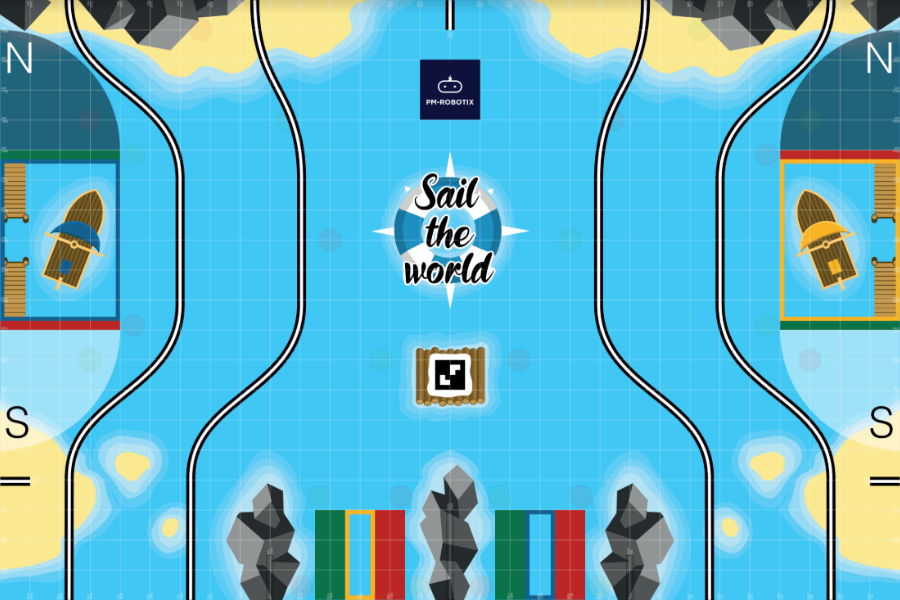
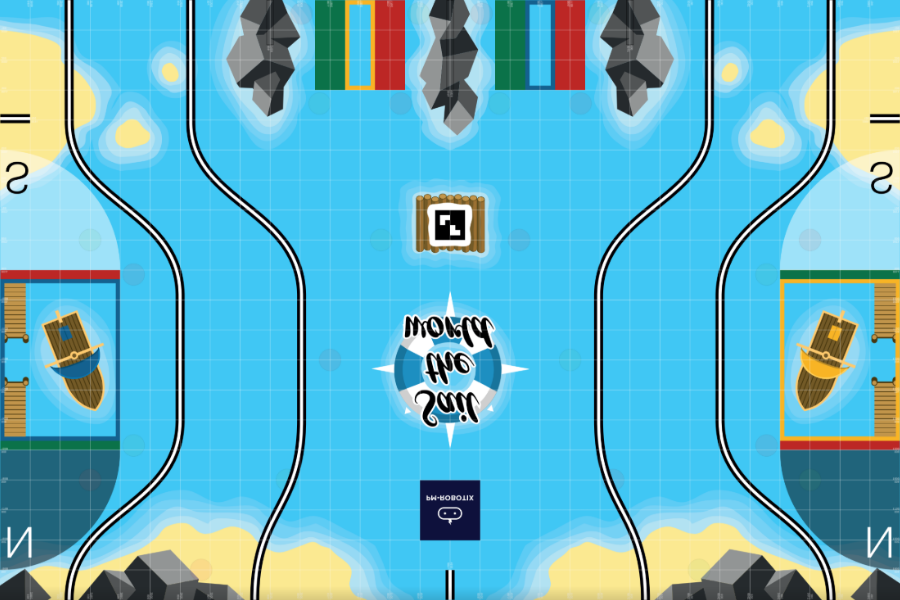
rotate coordinate plan

diff --git a/src/TablePanel.java b/src/TablePanel.java
@@ -6,9 +6,21 @@ import java.awt.event.*;
 import java.awt.geom.AffineTransform;
 import java.io.IOException;
 
+/**
+ * Author : Canyon
+ * Edited by
+ * @Ta0uf19
+ *
+ * TODO:
+ *  - fix up, down key
+ */
+
 public class TablePanel extends JPanel {
 	private static final long serialVersionUID = 1L;
-	
+
+	private static int WEIGHT_PADDING_PX = 30;
+	private static int HEIGHT_PADDING_PX = 600;
+
 	Image tableImg, robotImg;
 	static boolean drawLine;
 	
@@ -28,6 +40,12 @@ public class TablePanel extends JPanel {
 	
 	public void paintComponent(Graphics g){//Affichage de la table et tout les �l�ments dessus
 		Graphics2D g2d = (Graphics2D)g;
+		AffineTransform at = g2d.getTransform();
+
+		g2d.translate(WEIGHT_PADDING_PX, HEIGHT_PADDING_PX);
+		// inverser le plan
+		g2d.scale(1, -1);
+
 		g.drawImage(tableImg, 0, 0, this);
 		drawRobot(g2d, EditorPanel.actualRobot);
 		if(drawLine)drawLine(g2d);
@@ -36,14 +54,15 @@ public class TablePanel extends JPanel {
 	//Transition
 	KeyListener keyPressed = new KeyListener(){
 		public void keyPressed(KeyEvent e){
-			if(e.getKeyCode()==KeyEvent.VK_UP) EditorPanel.actualRobot.setY(EditorPanel.actualRobot.getY()-1);
-			if(e.getKeyCode()==KeyEvent.VK_DOWN) EditorPanel.actualRobot.setY(EditorPanel.actualRobot.getY()+1);
+			if(e.getKeyCode()==KeyEvent.VK_UP) EditorPanel.actualRobot.setY(EditorPanel.actualRobot.getY()+1);
+			if(e.getKeyCode()==KeyEvent.VK_DOWN) EditorPanel.actualRobot.setY(EditorPanel.actualRobot.getY()-1);
 			if(e.getKeyCode()==KeyEvent.VK_RIGHT) EditorPanel.actualRobot.setX(EditorPanel.actualRobot.getX()+1);
 			if(e.getKeyCode()==KeyEvent.VK_LEFT) EditorPanel.actualRobot.setX(EditorPanel.actualRobot.getX()-1);
 			if(EditorPanel.list.getSelectedIndex()!=0){
 				Robot old = EditorPanel.stepList.getElementAt(EditorPanel.list.getSelectedIndex()-1);
 				Robot actual = EditorPanel.stepList.getElementAt(EditorPanel.list.getSelectedIndex());
 				int theta = (int) (Math.atan2((double)(actual.getY()-old.getY()),(double)(actual.getX()-old.getX()))*180/Math.PI);
+				//int theta=(int) ((int)Math.atan((double)(old.getX()-actual.getX())/(double)(old.getY()-actual.getY()))*180/Math.PI);
 				EditorPanel.actualRobot.setAngle(theta);
 			}
 			EditorPanel.updateCoord();
@@ -60,8 +79,11 @@ public class TablePanel extends JPanel {
 		public void keyTyped(KeyEvent arg0) {
 		}
 	};
-	
-	MouseWheelListener wheelRotate = new MouseWheelListener(){//Rotation du robot avec la molette
+
+	/**
+	 * Rotation du robot avec la molette
+	 */
+	MouseWheelListener wheelRotate = new MouseWheelListener(){
 		public void mouseWheelMoved(MouseWheelEvent e) {
 			EditorPanel.actualRobot.setAngle(EditorPanel.actualRobot.getAngle()+e.getWheelRotation()*2);
 			EditorPanel.updateCoord();
@@ -69,11 +91,14 @@ public class TablePanel extends JPanel {
 			
 		}
 	};
-	MouseMotionListener mooved = new MouseMotionListener(){//Deplacement du robot avec la souris
+	/**
+	 * Déplacement du robot avec la souris
+	 */
+	MouseMotionListener mooved = new MouseMotionListener(){
 
 		@Override
 		public void mouseDragged(MouseEvent e) {
-			if(EditorPanel.list.getSelectedIndex()!=0){
+			/*if(EditorPanel.list.getSelectedIndex()!=0){
 				if(EditorPanel.actualRobot.getType().equals("DeplacementX")) {
 					EditorPanel.actualRobot.setX(Robot.dispXToReal(e.getX()));
 					EditorPanel.actualRobot.setY(EditorPanel.stepList.getElementAt(EditorPanel.list.getSelectedIndex()-1).getY());
@@ -84,10 +109,15 @@ public class TablePanel extends JPanel {
 					EditorPanel.actualRobot.setX(Robot.dispXToReal(e.getX()));
 					EditorPanel.actualRobot.setY(Robot.dispYToReal(e.getY()));
 				}
+				EditorPanel.actualRobot.setX(Robot.dispXToReal(e.getX()));
+				EditorPanel.actualRobot.setY(Robot.dispYToReal(e.getY()));
 			}else {
 				EditorPanel.actualRobot.setX(Robot.dispXToReal(e.getX()));
 				EditorPanel.actualRobot.setY(Robot.dispYToReal(e.getY()));
-			}
+			}*/
+
+			EditorPanel.actualRobot.setX(Robot.dispXToReal(e.getX()));
+			EditorPanel.actualRobot.setY(Robot.dispYToReal(e.getY()));
 
 
 			int theta=0;
@@ -160,7 +190,7 @@ public class TablePanel extends JPanel {
 			}
 		}
 		AffineTransform at = AffineTransform.getTranslateInstance(r.getDispX(), r.getDispY());
-		System.out.println(at);
+		//System.out.println(at);
 		if(Main.robot.equals("roballs")) {
 			at.rotate(Math.toRadians(EditorPanel.actualRobot.getRealAngle()),45,60); //0 � changer par l'angle
 		}else {
@@ -179,7 +209,11 @@ public class TablePanel extends JPanel {
 			//TODO edit le point de pivot
 		}
 	}
-	
+
+	/**
+	 * Drawline stratégie
+	 * @param g
+	 */
 	public void drawLine(Graphics2D g){
 		 ListModel<Robot> liste = EditorPanel.list.getModel();
 		 for(int i=0; i<liste.getSize()-1;i++){

diff --git a/src/Robot.java b/src/Robot.java
@@ -23,8 +23,8 @@ public class Robot {
 	
 	public Robot(){
 		type = "POSITION";
-		x=0;
-		y=0;
+		x=144;
+		y=824;
 		angle=0;
 		deltaDeplacement=10;
 		deltaAngle=1;
@@ -92,12 +92,11 @@ public class Robot {
 	}*/
 
 	int getDispX(){
-		return (getX()*3/10);
+		return ((getX()*3/10)-46);
 	}
 	int getDispY(){
-		return  (getY()*3/10);
+		return  ((getY()*3/10)-59);
 	}
-	
 	
 	/*static int dispXToReal(int x){
 		if(Main.robot.equals("roballs")) {
@@ -107,7 +106,7 @@ public class Robot {
 			//TODO coord X bobby
 		}
 	}
-	
+
 	static int dispYToReal(int y){
 		if(Main.robot.equals("roballs")) {
 			return 2000-(y*10/3);
@@ -117,8 +116,9 @@ public class Robot {
 		}
 	}*/
 	static int dispXToReal(int x){
+
 		if(Main.robot.equals("roballs")) {
-			return (x*10/3)-142;
+			return (x*10/3);
 		}else {
 			return 0;
 			//TODO coord X bobby
@@ -127,7 +127,7 @@ public class Robot {
 
 	static int dispYToReal(int y){
 		if(Main.robot.equals("roballs")) {
-			return (y*10/3)-192;
+			return (y*10/3)-2000;
 		}else {
 			return 0;
 			//TODO coord Y bobby
@@ -135,7 +135,7 @@ public class Robot {
 	}
 	
 	int getY(){
-		return y;
+		return -y;
 	}
 	void setY(int y){
 		this.y = y;
@@ -148,10 +148,13 @@ public class Robot {
 	public void setAngle(int a) {
 		angle = a;
 	}
-	
+
 	public int getRealAngle() {
 		return (angle+90);
 	}
+	/*public int getRealAngle() {
+		return (angle);
+	}*/
 	
 	String getType(){
 		return type;

diff --git a/src/EditorFrame.java b/src/EditorFrame.java
@@ -7,7 +7,7 @@ public class EditorFrame extends JFrame{
 	static TablePanel TPanel= new TablePanel();
 	public EditorFrame(){
 		super("ENSIM'ELEC Strategy Editor");
-		this.setSize(1105, 665);
+		this.setSize(1300, 800);
 		this.setDefaultCloseOperation(JFrame.EXIT_ON_CLOSE);
 		this.setLayout(new BorderLayout());
 		this.add(TPanel, BorderLayout.CENTER);

diff --git a/src/EditorPanel.java b/src/EditorPanel.java
@@ -130,6 +130,7 @@ public class EditorPanel extends JPanel{
 		gb.setConstraints(strAction, gbc);
 		
 		
+		//actualRobot = new Robot(144,824, 0);
 		actualRobot = new Robot(0,0, 0);
 		stepList.addElement(actualRobot);
 		list.setSelectedIndex(0);
